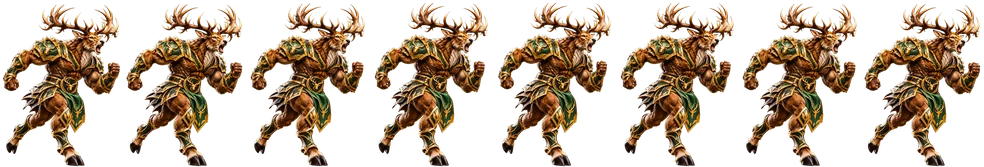
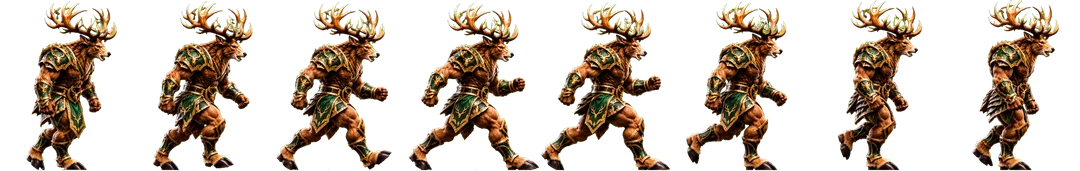
V2 preview 10.20: stag walk cycle, jump arc and victory from matching green-armour sheets (not live)
Claude-Session: https://claude.ai/code/session_01Wp8cgZvzavvyA9CxcdgKRp

diff --git a/game/js/sprites-hd.js b/game/js/sprites-hd.js
@@ -1,2 +1,2 @@
 // High-detail fighter frames (frames-hd/), used on large/sharp screens. Same layout as SPRITES.
-const SPRITES_HD={"badger":{"s":2.0,"anims":{"idle":[16,363,425,20,211],"walk_forward":[8,324,422,82,209],"walk_back":[8,324,422,82,209],"run":[8,324,422,82,209],"block":[6,374,428,21,212],"attack_light":[8,423,419,103,208],"bite":[8,364,423,92,210],"claw_swipe":[6,423,419,103,208],"attack_heavy":[8,390,418,89,207],"uppercut":[8,423,419,103,208],"pounce":[8,364,423,92,210],"special_earth_slam":[7,390,418,89,207],"shadow_rampage":[10,423,419,103,208],"victory":[7,364,423,92,210],"jump":[7,374,428,21,212],"crouch":[4,374,428,21,212],"hit_light":[4,363,423,20,210],"hit_heavy":[6,363,423,20,210],"knockdown":[9,586,417,85,207],"knockdown_getup":[6,586,417,85,207],"defeat":[5,586,417,85,207]}},"crocodile":{"s":2.0,"anims":{"idle":[16,658,534,187,264],"walk_forward":[8,755,501,210,247],"walk_back":[8,755,501,210,247],"run":[8,755,501,210,247],"block":[6,617,527,168,261],"attack_light":[8,751,527,215,261],"bite":[8,682,533,187,264],"special_pounce":[6,751,527,215,261],"attack_heavy":[8,777,555,197,275],"uppercut":[7,777,555,197,275],"victory":[8,682,533,187,264],"jump":[7,617,527,168,261],"hit_light":[4,653,531,187,263],"hit_heavy":[6,653,531,187,263],"knockdown":[9,975,530,141,263],"knockdown_getup":[6,975,530,141,263],"defeat":[5,975,530,141,263]}},"elephant":{"s":2.0,"anims":{"idle":[16,725,684,177,339],"walk_forward":[8,788,690,175,341],"walk_back":[8,788,690,175,341],"run":[8,788,690,175,341],"block":[6,717,696,179,344],"attack_light":[8,1010,683,214,338],"bite":[8,768,683,185,338],"special_pounce":[6,1010,683,214,338],"attack_heavy":[8,1018,727,253,360],"uppercut":[7,1018,727,253,360],"victory":[8,768,683,185,338],"jump":[7,717,696,179,344],"hit_light":[4,724,682,178,337],"hit_heavy":[6,724,682,178,337],"knockdown":[9,1092,696,385,345],"knockdown_getup":[6,1092,696,385,345],"defeat":[5,1092,696,385,345]}},"grizzly":{"s":2.0,"anims":{"idle":[16,484,632,126,314],"walk_forward":[8,561,633,92,314],"walk_back":[8,561,633,92,314],"run":[8,561,633,92,314],"block":[6,518,624,129,310],"attack_light":[8,587,631,161,313],"bite":[8,511,630,132,313],"special_pounce":[6,587,631,161,313],"attack_heavy":[8,570,632,142,314],"uppercut":[7,570,632,142,314],"victory":[8,570,632,142,314],"jump":[7,518,624,129,310],"hit_light":[4,485,629,127,312],"hit_heavy":[6,485,629,127,312],"knockdown":[9,804,634,94,315],"knockdown_getup":[6,804,634,94,315],"defeat":[5,804,634,94,315]}},"hippo":{"s":2.0,"anims":{"idle":[16,743,653,181,323],"walk_forward":[8,727,652,145,323],"walk_back":[8,727,652,145,323],"run":[8,727,652,145,323],"block":[6,684,640,170,316],"attack_light":[8,1009,649,213,321],"bite":[8,788,652,189,323],"special_pounce":[6,1009,649,213,321],"attack_heavy":[8,894,689,222,341],"uppercut":[7,894,689,222,341],"victory":[8,788,652,189,323],"jump":[7,684,640,170,316],"hit_light":[4,747,650,184,322],"hit_heavy":[6,747,650,184,322],"knockdown":[9,1058,681,164,338],"knockdown_getup":[6,1058,681,164,338],"defeat":[5,1058,681,164,338]}},"hyena":{"s":2.0,"anims":{"idle":[16,337,491,83,243],"walk_forward":[8,397,486,111,241],"walk_back":[8,397,486,111,241],"run":[8,397,486,111,241],"block":[6,400,486,100,241],"attack_light":[8,451,479,112,238],"bite":[8,355,489,87,243],"special_pounce":[6,355,489,87,243],"attack_heavy":[8,398,431,99,214],"uppercut":[7,451,479,112,238],"victory":[8,355,489,87,243],"jump":[7,400,486,100,241],"hit_light":[4,338,488,84,242],"hit_heavy":[6,338,488,84,242],"knockdown":[9,633,490,78,243],"knockdown_getup":[6,633,490,78,243],"defeat":[5,633,490,78,243]}},"jaguar":{"s":2.0,"anims":{"idle":[16,539,506,129,251],"walk_forward":[8,406,473,72,234],"walk_back":[8,406,473,72,234],"run":[8,406,473,72,234],"block":[6,354,501,25,248],"attack_light":[8,483,488,131,242],"bite":[8,558,504,129,250],"special_pounce":[6,483,488,131,242],"attack_heavy":[8,581,421,132,208],"uppercut":[7,581,421,132,208],"victory":[8,558,504,129,250],"jump":[7,354,501,25,248],"hit_light":[4,537,504,128,250],"hit_heavy":[6,537,504,128,250],"knockdown":[9,719,518,244,257],"knockdown_getup":[6,719,518,244,257],"defeat":[5,719,518,244,257]}},"leopard":{"s":2.0,"anims":{"idle":[16,471,515,22,255],"walk_forward":[8,307,485,87,240],"walk_back":[8,307,485,87,240],"run":[8,307,485,87,240],"dash":[4,307,485,87,240],"crouch":[3,428,517,102,256],"block":[6,443,509,31,253],"attack_light":[8,482,494,122,245],"bite":[8,482,514,22,255],"special_pounce":[6,482,494,122,245],"special_b":[8,482,514,22,255],"special_c":[5,482,494,122,245],"special_d":[14,482,494,122,245],"ultra_move":[5,452,555,97,276],"attack_heavy":[8,452,555,97,276],"uppercut":[7,452,555,97,276],"victory":[8,375,543,102,269],"jump":[7,428,517,102,256],"hit_light":[4,470,513,22,255],"hit_heavy":[6,470,513,22,255],"knockdown":[9,868,555,240,276],"knockdown_getup":[6,432,450,101,223],"defeat":[5,868,555,240,276]}},"lion":{"s":2.0,"anims":{"idle":[16,386,563,98,271],"walk_forward":[8,239,525,65,261],"walk_back":[8,239,525,65,261],"run":[8,239,525,65,261],"block":[6,382,412,96,204],"attack_light":[8,740,471,151,234],"bite":[8,740,471,151,234],"special_pounce":[6,740,471,151,234],"attack_heavy":[8,463,623,109,309],"uppercut":[7,463,623,109,309],"victory":[8,357,530,91,263],"jump":[7,452,422,111,209],"hit_light":[4,367,533,94,265],"hit_heavy":[6,367,533,94,265],"knockdown":[9,694,536,268,267],"knockdown_getup":[5,751,565,269,271],"defeat":[5,694,536,268,267]}},"tiger":{"s":2.0,"anims":{"idle":[16,499,538,126,267],"walk_forward":[8,448,537,86,266],"walk_back":[8,448,537,86,266],"run":[8,448,537,86,266],"block":[6,483,530,120,263],"attack_light":[8,520,524,132,260],"bite":[8,518,537,127,266],"special_pounce":[6,520,524,132,260],"attack_heavy":[8,471,515,127,255],"uppercut":[7,471,515,127,255],"victory":[8,518,537,127,266],"jump":[7,483,530,120,263],"hit_light":[4,496,536,126,266],"hit_heavy":[6,496,536,126,266],"knockdown":[9,750,543,261,270],"knockdown_getup":[6,750,543,261,270],"defeat":[5,750,543,261,270]}},"wolf":{"s":2.0,"anims":{"idle":[16,409,498,107,247],"walk_forward":[8,467,408,96,202],"walk_back":[8,467,408,96,202],"run":[8,467,408,96,202],"block":[6,404,490,104,244],"attack_light":[8,445,398,123,197],"bite":[8,447,340,119,168],"special_pounce":[6,447,340,119,168],"attack_heavy":[8,363,395,93,196],"uppercut":[7,363,395,93,196],"victory":[8,447,340,119,168],"jump":[7,404,490,104,244],"hit_light":[4,404,497,104,247],"hit_heavy":[6,404,497,104,247],"knockdown":[9,670,503,243,250],"knockdown_getup":[6,670,503,243,250],"defeat":[5,670,503,243,250]}},"majic":{"s":2.0,"anims":{"idle":[16,742,799,187,396],"walk_forward":[8,763,782,245,388],"walk_back":[8,763,782,245,388],"run":[8,763,782,245,388],"dash":[4,763,782,245,388],"crouch":[3,739,792,62,393],"block":[6,739,792,62,393],"attack_light":[8,808,714,216,354],"bite":[8,773,798,193,396],"special_pounce":[6,773,798,193,396],"special_b":[6,808,714,216,354],"special_c":[5,773,798,193,396],"special_d":[5,810,768,210,381],"ultra_move":[10,808,714,216,354],"attack_heavy":[8,810,768,210,381],"uppercut":[7,810,768,210,381],"victory":[8,742,799,187,396],"jump":[7,739,792,62,393],"hit_light":[4,746,795,190,395],"hit_heavy":[6,746,795,190,395],"knockdown":[9,1082,819,398,407],"knockdown_getup":[6,1082,819,398,407],"defeat":[5,1082,819,398,407]}},"snake":{"s":2.0,"anims":{"idle":[16,498,552,122,274],"walk_forward":[8,314,499,93,247],"walk_back":[8,314,499,93,247],"run":[8,314,499,93,247],"crouch":[3,469,547,25,272],"block":[6,469,547,25,272],"attack_light":[8,532,537,123,267],"bite":[8,498,551,122,274],"special_pounce":[6,498,551,122,274],"special_b":[6,532,537,123,267],"special_c":[5,498,551,122,274],"special_d":[5,491,567,114,281],"ultra_move":[10,532,537,123,267],"attack_heavy":[8,491,567,114,281],"uppercut":[7,491,567,114,281],"victory":[8,498,551,122,274],"jump":[7,469,547,25,272],"hit_light":[4,498,550,122,273],"hit_heavy":[6,498,550,122,273],"knockdown":[9,778,548,271,272],"knockdown_getup":[6,778,548,271,272],"defeat":[5,778,548,271,272]}},"eagle":{"s":2.0,"anims":{"idle":[16,486,526,121,261],"walk_forward":[8,478,518,190,257],"walk_back":[8,478,518,190,257],"run":[8,478,518,190,257],"crouch":[3,483,520,108,258],"block":[6,483,520,108,258],"attack_light":[8,500,526,124,261],"bite":[8,502,525,125,260],"special_pounce":[6,502,525,125,260],"special_b":[6,500,526,124,261],"ultra_move":[10,500,526,124,261],"attack_heavy":[8,497,530,123,263],"uppercut":[7,497,530,123,263],"victory":[8,486,526,121,261],"jump":[7,483,520,108,258],"hit_light":[4,487,522,122,259],"hit_heavy":[6,487,522,122,259],"knockdown":[9,692,536,255,266],"knockdown_getup":[6,692,536,255,266],"defeat":[5,692,536,255,266]}},"stag":{"s":2.0,"anims":{"idle":[16,341,572,85,283],"walk_forward":[8,411,557,124,276],"walk_back":[8,411,557,124,276],"run":[8,411,557,124,276],"crouch":[3,453,553,113,274],"block":[6,453,553,113,274],"attack_light":[8,539,540,118,268],"bite":[8,358,571,85,283],"special_pounce":[6,358,571,85,283],"special_b":[6,539,540,118,268],"special_c":[5,358,571,85,283],"special_d":[5,453,612,113,304],"ultra_move":[10,539,540,118,268],"attack_heavy":[8,453,612,113,304],"uppercut":[7,453,612,113,304],"victory":[8,358,571,85,283],"jump":[7,453,553,113,274],"hit_light":[4,341,570,85,282],"hit_heavy":[6,341,570,85,282],"knockdown":[9,734,584,285,290],"knockdown_getup":[6,507,558,164,277],"defeat":[5,734,584,285,290]}}};
+const SPRITES_HD={"badger":{"s":2.0,"anims":{"idle":[16,363,425,20,211],"walk_forward":[8,324,422,82,209],"walk_back":[8,324,422,82,209],"run":[8,324,422,82,209],"block":[6,374,428,21,212],"attack_light":[8,423,419,103,208],"bite":[8,364,423,92,210],"claw_swipe":[6,423,419,103,208],"attack_heavy":[8,390,418,89,207],"uppercut":[8,423,419,103,208],"pounce":[8,364,423,92,210],"special_earth_slam":[7,390,418,89,207],"shadow_rampage":[10,423,419,103,208],"victory":[7,364,423,92,210],"jump":[7,374,428,21,212],"crouch":[4,374,428,21,212],"hit_light":[4,363,423,20,210],"hit_heavy":[6,363,423,20,210],"knockdown":[9,586,417,85,207],"knockdown_getup":[6,586,417,85,207],"defeat":[5,586,417,85,207]}},"crocodile":{"s":2.0,"anims":{"idle":[16,658,534,187,264],"walk_forward":[8,755,501,210,247],"walk_back":[8,755,501,210,247],"run":[8,755,501,210,247],"block":[6,617,527,168,261],"attack_light":[8,751,527,215,261],"bite":[8,682,533,187,264],"special_pounce":[6,751,527,215,261],"attack_heavy":[8,777,555,197,275],"uppercut":[7,777,555,197,275],"victory":[8,682,533,187,264],"jump":[7,617,527,168,261],"hit_light":[4,653,531,187,263],"hit_heavy":[6,653,531,187,263],"knockdown":[9,975,530,141,263],"knockdown_getup":[6,975,530,141,263],"defeat":[5,975,530,141,263]}},"elephant":{"s":2.0,"anims":{"idle":[16,725,684,177,339],"walk_forward":[8,788,690,175,341],"walk_back":[8,788,690,175,341],"run":[8,788,690,175,341],"block":[6,717,696,179,344],"attack_light":[8,1010,683,214,338],"bite":[8,768,683,185,338],"special_pounce":[6,1010,683,214,338],"attack_heavy":[8,1018,727,253,360],"uppercut":[7,1018,727,253,360],"victory":[8,768,683,185,338],"jump":[7,717,696,179,344],"hit_light":[4,724,682,178,337],"hit_heavy":[6,724,682,178,337],"knockdown":[9,1092,696,385,345],"knockdown_getup":[6,1092,696,385,345],"defeat":[5,1092,696,385,345]}},"grizzly":{"s":2.0,"anims":{"idle":[16,484,632,126,314],"walk_forward":[8,561,633,92,314],"walk_back":[8,561,633,92,314],"run":[8,561,633,92,314],"block":[6,518,624,129,310],"attack_light":[8,587,631,161,313],"bite":[8,511,630,132,313],"special_pounce":[6,587,631,161,313],"attack_heavy":[8,570,632,142,314],"uppercut":[7,570,632,142,314],"victory":[8,570,632,142,314],"jump":[7,518,624,129,310],"hit_light":[4,485,629,127,312],"hit_heavy":[6,485,629,127,312],"knockdown":[9,804,634,94,315],"knockdown_getup":[6,804,634,94,315],"defeat":[5,804,634,94,315]}},"hippo":{"s":2.0,"anims":{"idle":[16,743,653,181,323],"walk_forward":[8,727,652,145,323],"walk_back":[8,727,652,145,323],"run":[8,727,652,145,323],"block":[6,684,640,170,316],"attack_light":[8,1009,649,213,321],"bite":[8,788,652,189,323],"special_pounce":[6,1009,649,213,321],"attack_heavy":[8,894,689,222,341],"uppercut":[7,894,689,222,341],"victory":[8,788,652,189,323],"jump":[7,684,640,170,316],"hit_light":[4,747,650,184,322],"hit_heavy":[6,747,650,184,322],"knockdown":[9,1058,681,164,338],"knockdown_getup":[6,1058,681,164,338],"defeat":[5,1058,681,164,338]}},"hyena":{"s":2.0,"anims":{"idle":[16,337,491,83,243],"walk_forward":[8,397,486,111,241],"walk_back":[8,397,486,111,241],"run":[8,397,486,111,241],"block":[6,400,486,100,241],"attack_light":[8,451,479,112,238],"bite":[8,355,489,87,243],"special_pounce":[6,355,489,87,243],"attack_heavy":[8,398,431,99,214],"uppercut":[7,451,479,112,238],"victory":[8,355,489,87,243],"jump":[7,400,486,100,241],"hit_light":[4,338,488,84,242],"hit_heavy":[6,338,488,84,242],"knockdown":[9,633,490,78,243],"knockdown_getup":[6,633,490,78,243],"defeat":[5,633,490,78,243]}},"jaguar":{"s":2.0,"anims":{"idle":[16,539,506,129,251],"walk_forward":[8,406,473,72,234],"walk_back":[8,406,473,72,234],"run":[8,406,473,72,234],"block":[6,354,501,25,248],"attack_light":[8,483,488,131,242],"bite":[8,558,504,129,250],"special_pounce":[6,483,488,131,242],"attack_heavy":[8,581,421,132,208],"uppercut":[7,581,421,132,208],"victory":[8,558,504,129,250],"jump":[7,354,501,25,248],"hit_light":[4,537,504,128,250],"hit_heavy":[6,537,504,128,250],"knockdown":[9,719,518,244,257],"knockdown_getup":[6,719,518,244,257],"defeat":[5,719,518,244,257]}},"leopard":{"s":2.0,"anims":{"idle":[16,471,515,22,255],"walk_forward":[8,307,485,87,240],"walk_back":[8,307,485,87,240],"run":[8,307,485,87,240],"dash":[4,307,485,87,240],"crouch":[3,428,517,102,256],"block":[6,443,509,31,253],"attack_light":[8,482,494,122,245],"bite":[8,482,514,22,255],"special_pounce":[6,482,494,122,245],"special_b":[8,482,514,22,255],"special_c":[5,482,494,122,245],"special_d":[14,482,494,122,245],"ultra_move":[5,452,555,97,276],"attack_heavy":[8,452,555,97,276],"uppercut":[7,452,555,97,276],"victory":[8,375,543,102,269],"jump":[7,428,517,102,256],"hit_light":[4,470,513,22,255],"hit_heavy":[6,470,513,22,255],"knockdown":[9,868,555,240,276],"knockdown_getup":[6,432,450,101,223],"defeat":[5,868,555,240,276]}},"lion":{"s":2.0,"anims":{"idle":[16,386,563,98,271],"walk_forward":[8,239,525,65,261],"walk_back":[8,239,525,65,261],"run":[8,239,525,65,261],"block":[6,382,412,96,204],"attack_light":[8,740,471,151,234],"bite":[8,740,471,151,234],"special_pounce":[6,740,471,151,234],"attack_heavy":[8,463,623,109,309],"uppercut":[7,463,623,109,309],"victory":[8,357,530,91,263],"jump":[7,452,422,111,209],"hit_light":[4,367,533,94,265],"hit_heavy":[6,367,533,94,265],"knockdown":[9,694,536,268,267],"knockdown_getup":[5,751,565,269,271],"defeat":[5,694,536,268,267]}},"tiger":{"s":2.0,"anims":{"idle":[16,499,538,126,267],"walk_forward":[8,448,537,86,266],"walk_back":[8,448,537,86,266],"run":[8,448,537,86,266],"block":[6,483,530,120,263],"attack_light":[8,520,524,132,260],"bite":[8,518,537,127,266],"special_pounce":[6,520,524,132,260],"attack_heavy":[8,471,515,127,255],"uppercut":[7,471,515,127,255],"victory":[8,518,537,127,266],"jump":[7,483,530,120,263],"hit_light":[4,496,536,126,266],"hit_heavy":[6,496,536,126,266],"knockdown":[9,750,543,261,270],"knockdown_getup":[6,750,543,261,270],"defeat":[5,750,543,261,270]}},"wolf":{"s":2.0,"anims":{"idle":[16,409,498,107,247],"walk_forward":[8,467,408,96,202],"walk_back":[8,467,408,96,202],"run":[8,467,408,96,202],"block":[6,404,490,104,244],"attack_light":[8,445,398,123,197],"bite":[8,447,340,119,168],"special_pounce":[6,447,340,119,168],"attack_heavy":[8,363,395,93,196],"uppercut":[7,363,395,93,196],"victory":[8,447,340,119,168],"jump":[7,404,490,104,244],"hit_light":[4,404,497,104,247],"hit_heavy":[6,404,497,104,247],"knockdown":[9,670,503,243,250],"knockdown_getup":[6,670,503,243,250],"defeat":[5,670,503,243,250]}},"majic":{"s":2.0,"anims":{"idle":[16,742,799,187,396],"walk_forward":[8,763,782,245,388],"walk_back":[8,763,782,245,388],"run":[8,763,782,245,388],"dash":[4,763,782,245,388],"crouch":[3,739,792,62,393],"block":[6,739,792,62,393],"attack_light":[8,808,714,216,354],"bite":[8,773,798,193,396],"special_pounce":[6,773,798,193,396],"special_b":[6,808,714,216,354],"special_c":[5,773,798,193,396],"special_d":[5,810,768,210,381],"ultra_move":[10,808,714,216,354],"attack_heavy":[8,810,768,210,381],"uppercut":[7,810,768,210,381],"victory":[8,742,799,187,396],"jump":[7,739,792,62,393],"hit_light":[4,746,795,190,395],"hit_heavy":[6,746,795,190,395],"knockdown":[9,1082,819,398,407],"knockdown_getup":[6,1082,819,398,407],"defeat":[5,1082,819,398,407]}},"snake":{"s":2.0,"anims":{"idle":[16,498,552,122,274],"walk_forward":[8,314,499,93,247],"walk_back":[8,314,499,93,247],"run":[8,314,499,93,247],"crouch":[3,469,547,25,272],"block":[6,469,547,25,272],"attack_light":[8,532,537,123,267],"bite":[8,498,551,122,274],"special_pounce":[6,498,551,122,274],"special_b":[6,532,537,123,267],"special_c":[5,498,551,122,274],"special_d":[5,491,567,114,281],"ultra_move":[10,532,537,123,267],"attack_heavy":[8,491,567,114,281],"uppercut":[7,491,567,114,281],"victory":[8,498,551,122,274],"jump":[7,469,547,25,272],"hit_light":[4,498,550,122,273],"hit_heavy":[6,498,550,122,273],"knockdown":[9,778,548,271,272],"knockdown_getup":[6,778,548,271,272],"defeat":[5,778,548,271,272]}},"eagle":{"s":2.0,"anims":{"idle":[16,486,526,121,261],"walk_forward":[8,478,518,190,257],"walk_back":[8,478,518,190,257],"run":[8,478,518,190,257],"crouch":[3,483,520,108,258],"block":[6,483,520,108,258],"attack_light":[8,500,526,124,261],"bite":[8,502,525,125,260],"special_pounce":[6,502,525,125,260],"special_b":[6,500,526,124,261],"ultra_move":[10,500,526,124,261],"attack_heavy":[8,497,530,123,263],"uppercut":[7,497,530,123,263],"victory":[8,486,526,121,261],"jump":[7,483,520,108,258],"hit_light":[4,487,522,122,259],"hit_heavy":[6,487,522,122,259],"knockdown":[9,692,536,255,266],"knockdown_getup":[6,692,536,255,266],"defeat":[5,692,536,255,266]}},"stag":{"s":2.0,"anims":{"idle":[16,341,572,85,283],"walk_forward":[8,450,569,111,282],"walk_back":[8,450,569,111,282],"run":[8,450,569,111,282],"crouch":[3,543,734,154,365],"block":[6,453,553,113,274],"attack_light":[8,539,540,118,268],"bite":[8,358,571,85,283],"special_pounce":[6,358,571,85,283],"special_b":[6,539,540,118,268],"special_c":[5,358,571,85,283],"special_d":[5,453,612,113,304],"ultra_move":[10,539,540,118,268],"attack_heavy":[8,453,612,113,304],"uppercut":[7,453,612,113,304],"victory":[8,512,565,127,280],"jump":[7,543,734,154,365],"hit_light":[4,341,570,85,282],"hit_heavy":[6,341,570,85,282],"knockdown":[9,734,584,285,290],"knockdown_getup":[6,507,558,164,277],"defeat":[5,734,584,285,290]}}};

diff --git a/game/js/game.js b/game/js/game.js
@@ -1667,7 +1667,7 @@ const SPRITES={
  eagle:{s:0.6,anims:{"idle":[16,146,158,121,261],"walk_forward":[8,143,155,190,257],"walk_back":[8,143,155,190,257],"run":[8,143,155,190,257],"crouch":[3,145,156,108,258],"block":[6,145,156,108,258],"attack_light":[8,150,158,124,261],"bite":[8,151,157,125,260],"special_pounce":[6,151,157,125,260],"special_b":[6,150,158,124,261],"ultra_move":[10,150,158,124,261],"attack_heavy":[8,149,159,123,263],"uppercut":[7,149,159,123,263],"victory":[8,146,158,121,261],"jump":[7,145,156,108,258],"hit_light":[4,146,157,122,259],"hit_heavy":[6,146,157,122,259],"knockdown":[9,208,161,255,266],"knockdown_getup":[6,208,161,255,266],"defeat":[5,208,161,255,266]},
   double:['attack_light','attack_heavy','special_b'],special:'special_pounce',shadow:'special_b',ultra:['ultra_move','attack_heavy','bite','uppercut'],
   fall:['knockdown',[0,1,2,3,4,5]],getup:['knockdown',[7,3,2,1,0]],ko:['knockdown',8]},
- stag:{s:0.6,anims:{"idle":[16,102,171,85,283],"walk_forward":[8,123,167,124,276],"walk_back":[8,123,167,124,276],"run":[8,123,167,124,276],"crouch":[3,136,166,113,274],"block":[6,136,166,113,274],"attack_light":[8,162,162,118,268],"bite":[8,107,171,85,283],"special_pounce":[6,107,171,85,283],"special_b":[6,162,162,118,268],"special_c":[5,107,171,85,283],"special_d":[5,136,184,113,304],"ultra_move":[10,162,162,118,268],"attack_heavy":[8,136,184,113,304],"uppercut":[7,136,184,113,304],"victory":[8,107,171,85,283],"jump":[7,136,166,113,274],"hit_light":[4,102,171,85,282],"hit_heavy":[6,102,171,85,282],"knockdown":[9,220,175,285,290],"knockdown_getup":[6,152,167,164,277],"defeat":[5,220,175,285,290]},
+ stag:{s:0.6,anims:{"idle":[16,102,171,85,283],"walk_forward":[8,135,171,111,282],"walk_back":[8,135,171,111,282],"run":[8,135,171,111,282],"crouch":[3,163,220,154,365],"block":[6,136,166,113,274],"attack_light":[8,162,162,118,268],"bite":[8,107,171,85,283],"special_pounce":[6,107,171,85,283],"special_b":[6,162,162,118,268],"special_c":[5,107,171,85,283],"special_d":[5,136,184,113,304],"ultra_move":[10,162,162,118,268],"attack_heavy":[8,136,184,113,304],"uppercut":[7,136,184,113,304],"victory":[8,154,169,127,280],"jump":[7,163,220,154,365],"hit_light":[4,102,171,85,282],"hit_heavy":[6,102,171,85,282],"knockdown":[9,220,175,285,290],"knockdown_getup":[6,152,167,164,277],"defeat":[5,220,175,285,290]},
   double:['attack_heavy','attack_light'],special:'special_pounce',shadow:'special_b',ultra:['ultra_move','attack_heavy','bite','uppercut'],
   fall:['knockdown',[0,1,2,3,4,5]],getup:['knockdown_getup',[0,1,2,3,4,5]],ko:['knockdown',8]},
  majic:{s:0.6,anims:{"idle":[16,222,240,187,396],"walk_forward":[8,229,235,245,388],"walk_back":[8,229,235,245,388],"run":[8,229,235,245,388],"dash":[4,229,235,245,388],"crouch":[3,222,238,62,393],"block":[6,222,238,62,393],"attack_light":[8,243,214,216,354],"bite":[8,232,239,193,396],"special_pounce":[6,232,239,193,396],"special_b":[6,243,214,216,354],"special_c":[5,232,239,193,396],"special_d":[5,243,230,210,381],"ultra_move":[10,243,214,216,354],"attack_heavy":[8,243,230,210,381],"uppercut":[7,243,230,210,381],"victory":[8,222,240,187,396],"jump":[7,222,238,62,393],"hit_light":[4,224,239,190,395],"hit_heavy":[6,224,239,190,395],"knockdown":[9,325,246,398,407],"knockdown_getup":[6,325,246,398,407],"defeat":[5,325,246,398,407]},
@@ -1707,11 +1707,11 @@ const SPRITES={
   double:['attack_heavy','attack_light'],special:'special_pounce',shadow:null,ultra:['attack_light','attack_heavy','uppercut','bite'],
   fall:['knockdown',[0,1,2,3,4,5]],getup:['knockdown',[7,3,2,1,0]],ko:['knockdown',8]}
 };
-const spriteImg={};for(const id in SPRITES){spriteImg[id]={};for(const k in SPRITES[id].anims){const im=new Image();im.src='assets/characters/'+id+'/frames/'+k+'.webp?v=10.19';spriteImg[id][k]=im}}
+const spriteImg={};for(const id in SPRITES){spriteImg[id]={};for(const k in SPRITES[id].anims){const im=new Image();im.src='assets/characters/'+id+'/frames/'+k+'.webp?v=10.20';spriteImg[id][k]=im}}
 // High-detail art for big, sharp screens (laptops, TVs, 4K): loaded per fight, only for the two fighters in it.
 const HD=typeof SPRITES_HD!=='undefined'?SPRITES_HD:{},spriteHD={};
 function wantHD(){const r=$('game-canvas').getBoundingClientRect(),d=Math.min(window.devicePixelRatio||1,3);return r.height*d>=560}
-function loadHD(id){if(!HD[id]||spriteHD[id])return;spriteHD[id]={};for(const k in HD[id].anims){const im=new Image();im.decoding='async';im.src='assets/characters/'+id+'/frames-hd/'+k+'.webp?v=10.19';spriteHD[id][k]=im}}
+function loadHD(id){if(!HD[id]||spriteHD[id])return;spriteHD[id]={};for(const k in HD[id].anims){const im=new Image();im.decoding='async';im.src='assets/characters/'+id+'/frames-hd/'+k+'.webp?v=10.20';spriteHD[id][k]=im}}
 const c=$('game-canvas').getContext('2d');
 function draw(){
  const canvas=$('game-canvas'),rect=canvas.getBoundingClientRect(),dpr=Math.min(window.devicePixelRatio||1,3),w=1100,h=520;

diff --git a/game/index.html b/game/index.html
@@ -17,7 +17,7 @@
   s.addEventListener('pointerdown',go);addEventListener('keydown',function(e){if(!done){go(e)}},{capture:true,once:true});(function pad(){if(done)return;var g=navigator.getGamepads?[].slice.call(navigator.getGamepads()):[];if(g.some(function(x){return x&&x.buttons.some(function(b){return b.pressed})})){go();return}requestAnimationFrame(pad)})()})();</script>
   <div id="backdrop" aria-hidden="true"><div class="bd-img bd-a"></div><div class="bd-img bd-b"></div><div class="bd-rays"></div><div class="bd-vignette"></div><canvas id="bd-embers"></canvas></div>
   <main id="app">
-    <header class="topbar"><img class="brand-crown" src="assets/ui/crown.webp" alt=""><div><div class="eyebrow">A LEGACY UNLEASHED</div><h1>KING OF THE JUNGLE</h1></div><div class="build-tag">V2 PREVIEW · 10.19 (not live)</div></header>
+    <header class="topbar"><img class="brand-crown" src="assets/ui/crown.webp" alt=""><div><div class="eyebrow">A LEGACY UNLEASHED</div><h1>KING OF THE JUNGLE</h1></div><div class="build-tag">V2 PREVIEW · 10.20 (not live)</div></header>
     <section id="menu" class="screen cover">
       <div class="cover-bg"></div><div class="cover-rays"></div><canvas id="embers" class="cover-embers"></canvas><div class="cover-vignette"></div>
       <div class="cover-hero"><div class="hero-glow"></div><img src="assets/characters/lion/lion-hero.webp" alt="The Lion, King of the Jungle"></div>
@@ -42,7 +42,7 @@
         </div>
       </div>
       <div class="cover-roster"><span>11 FIGHTERS · ONE THRONE</span><div id="cover-faces"></div></div>
-      <div class="cover-meta"><span id="cover-build">V2 PREVIEW · 10.19 (not live)</span><span>© King of the Jungle · J. Hardy</span></div>
+      <div class="cover-meta"><span id="cover-build">V2 PREVIEW · 10.20 (not live)</span><span>© King of the Jungle · J. Hardy</span></div>
     </section>
     <section id="select" class="screen hidden v2sel">
       <div class="select-title"><img class="st-crown" src="assets/ui/crown.webp" alt=""><h2 class="st-main">KING <small>OF THE</small> JUNGLE</h2><p class="st-sub">CHARACTER SELECT</p><p id="select-instruction">Player 1: choose a fighter</p></div>
@@ -114,7 +114,7 @@
     </section>
     <footer><span>© KING OF THE JUNGLE</span><span>Created and Developed by J. Hardy</span></footer>
   </main>
-  <script src="js/roster.js?v=7.1"></script><script src="js/story.js?v=7.7"></script><script src="js/sprites-hd.js?v=10.19"></script><script src="js/audio.js?v=9.12"></script><script src="js/hitboxes.js?v=8.0"></script><script src="js/net.js?v=7.1"></script><script src="js/game.js?v=10.19"></script>
+  <script src="js/roster.js?v=7.1"></script><script src="js/story.js?v=7.7"></script><script src="js/sprites-hd.js?v=10.20"></script><script src="js/audio.js?v=9.12"></script><script src="js/hitboxes.js?v=8.0"></script><script src="js/net.js?v=7.1"></script><script src="js/game.js?v=10.20"></script>
 <script>(function(){var last=0;
 document.addEventListener('gesturestart',function(e){e.preventDefault()},{passive:false});
 document.addEventListener('gesturechange',function(e){e.preventDefault()},{passive:false});
